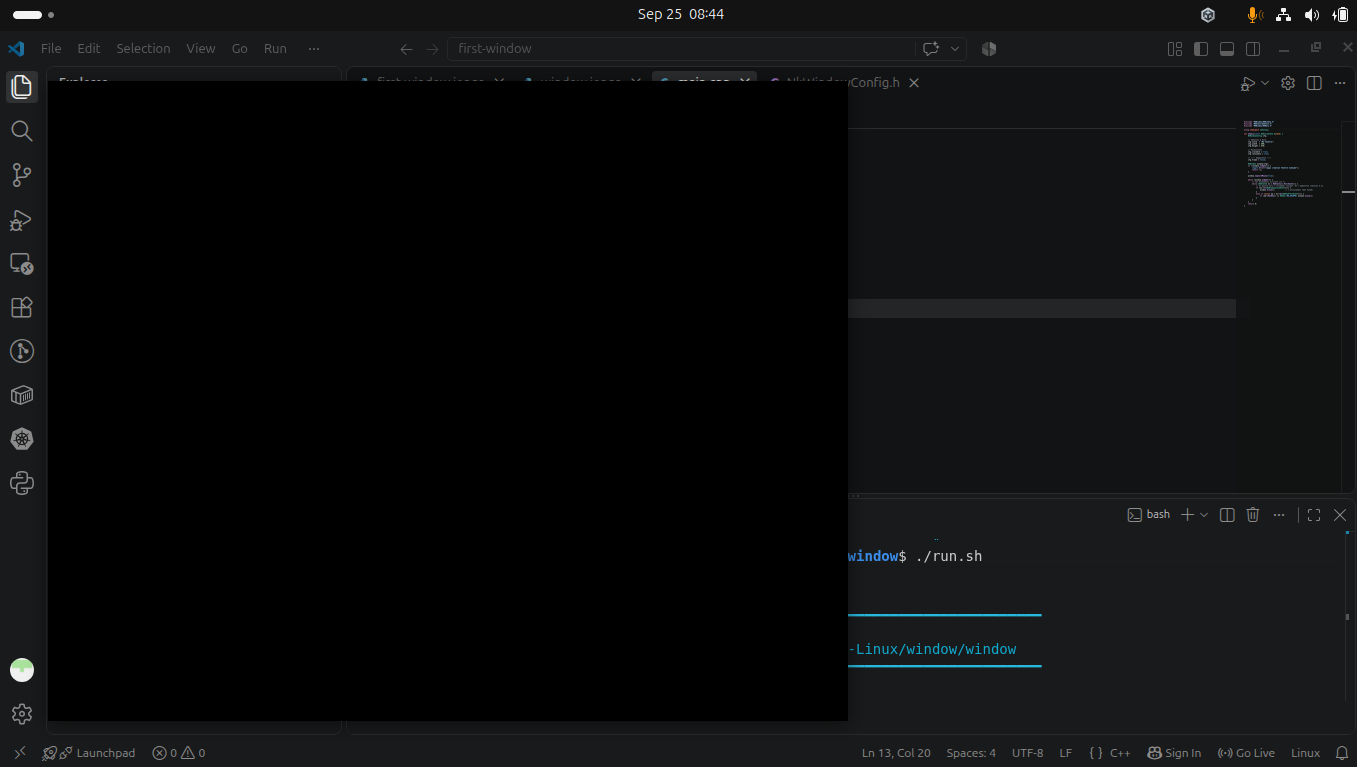
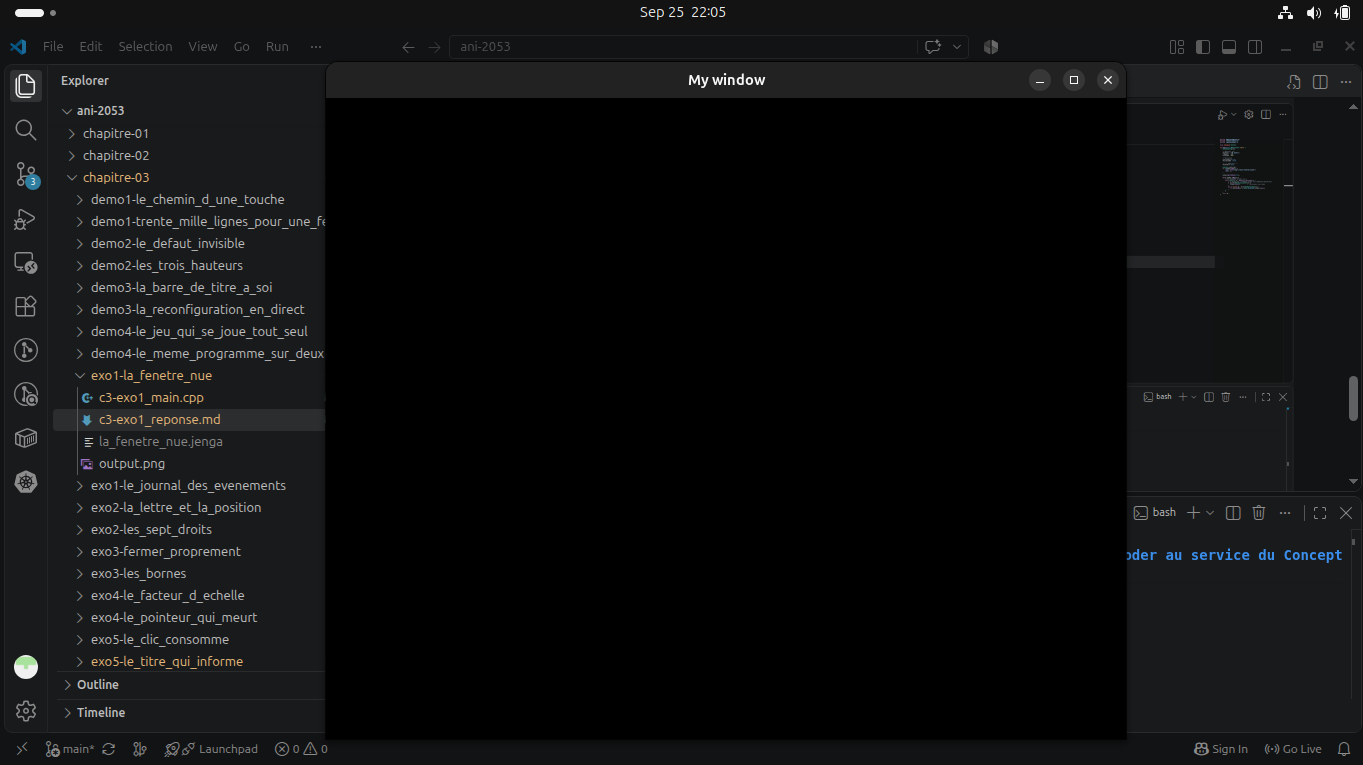
Correction 2 Chap-03/Exo-01-1

diff --git a/chapitre-03/exo1-la_fenetre_nue/c3-exo1_main.cpp b/chapitre-03/exo1-la_fenetre_nue/c3-exo1_main.cpp
@@ -23,9 +23,6 @@ int nkmain(const NkEntryState &state) {
             if (ev->Is<NkWindowCloseEvent>()) {
                 window.Close();
             }
-            else if (auto* kp = ev->As<NkKeyPressEvent>()) {
-                if (kp->GetKey() == NkKey::NK_ESCAPE) window.Close();
-            }
         }
     }
     return 0;

diff --git a/chapitre-03/exo1-la_fenetre_nue/c3-exo1_reponse.md b/chapitre-03/exo1-la_fenetre_nue/c3-exo1_reponse.md
@@ -1,12 +1,12 @@
 Our program `c3-exo1_main.cpp` has exactly `32 lines` of which :
 
-- We have includes from `line 1 to 2`
+- We have includes from `line 1 to 2`. These are mentionned in chapter 3 at the smallest valid `NKWindow` program.
 ``` cpp
     #include "NKWindow/NKWindow.h"
     #include "NKWindow/NKMain.h"
 ```
 
-- A namespace `nkentseu` at `line 4`
+- A namespace `nkentseu` at `line 4`. This `namespace` was not explicitly mentionned in the chapter but we know `Nkentseu` works using it.
 ``` cpp
 using namespace nkentseu;
 ```
@@ -35,7 +35,7 @@ int nkmain(const NkEntryState &state) { ... }
     }
 ``` 
 
-- We then keep the window alive and Handle events.
+- We then keep the window alive and Handle events. These are mentionned in chapter 3 at the smallest valid `NKWindow` program.
 ``` cpp
     while (window.IsOpen()) { 
         /* events come here */ 
@@ -43,9 +43,6 @@ int nkmain(const NkEntryState &state) { ... }
             // ev points to current event
             if (ev->Is<NkWindowCloseEvent>()) {
                 window.Close();
-            }
-            else if (auto* kp = ev->As<NkKeyPressEvent>()) {
-                if (kp->GetKey() == NkKey::NK_ESCAPE) window.Close();
             }
         }
     }
@@ -94,17 +91,16 @@ Build Order (1 projects):
 ✓ Built: Build/Bin/Debug-Linux/la_fenetre_nue/la_fenetre_nue
 
 ┌──────────────────────────────────────────────────────────────────────────────────────────────┐
-│  ✓ Build Successful                                                             Time: 3.85s  │
+│  ✓ Build Successful                                                             Time: 2.19s  │
 └──────────────────────────────────────────────────────────────────────────────────────────────┘
 
 ════════════════════════════════════════════════════════════════════════════════
                                 BUILD COMPLETED                                 
 ════════════════════════════════════════════════════════════════════════════════
 Projects Built:  1/1
-Time:           3.85s
+Time:           2.19s
 Status:         ✓ SUCCESS
 ════════════════════════════════════════════════════════════════════════════════
-
 ```
 
 ### Output
